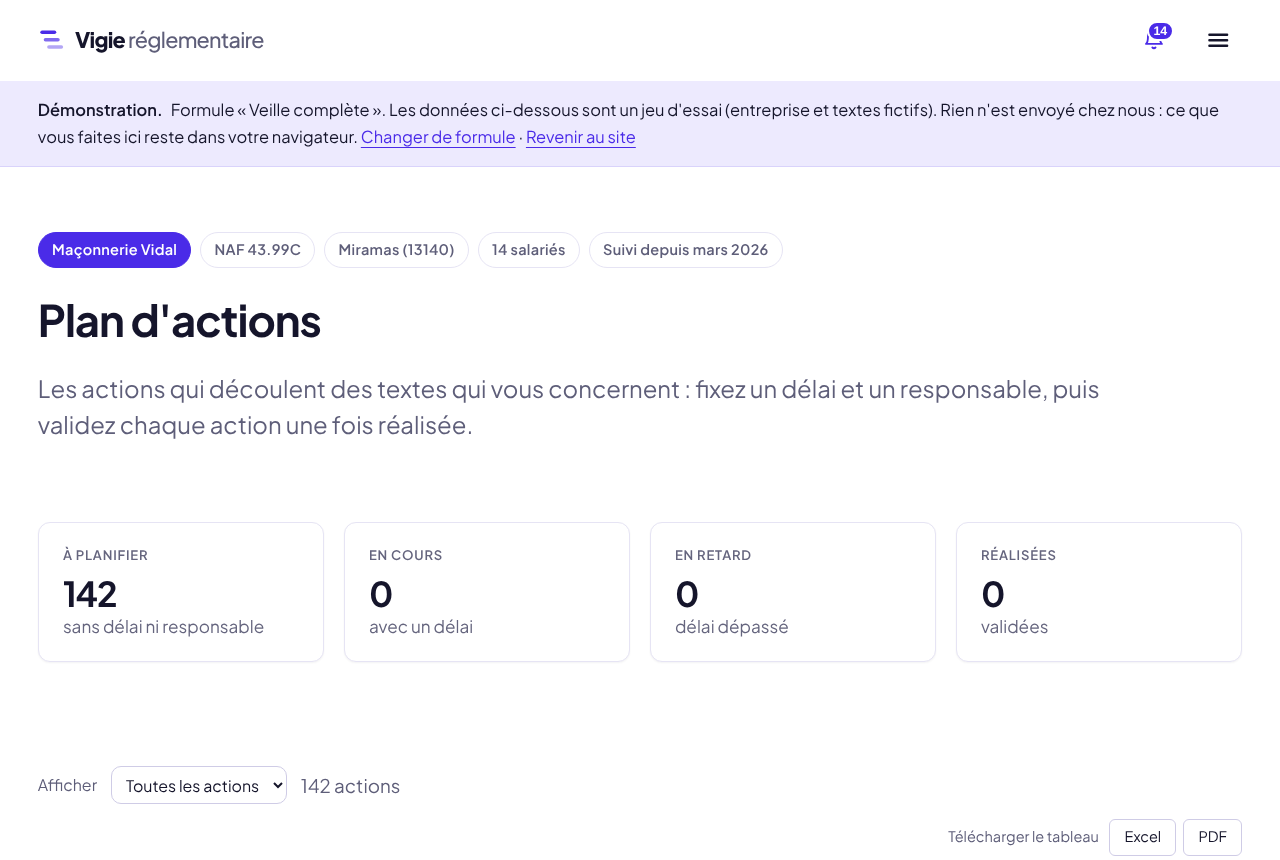
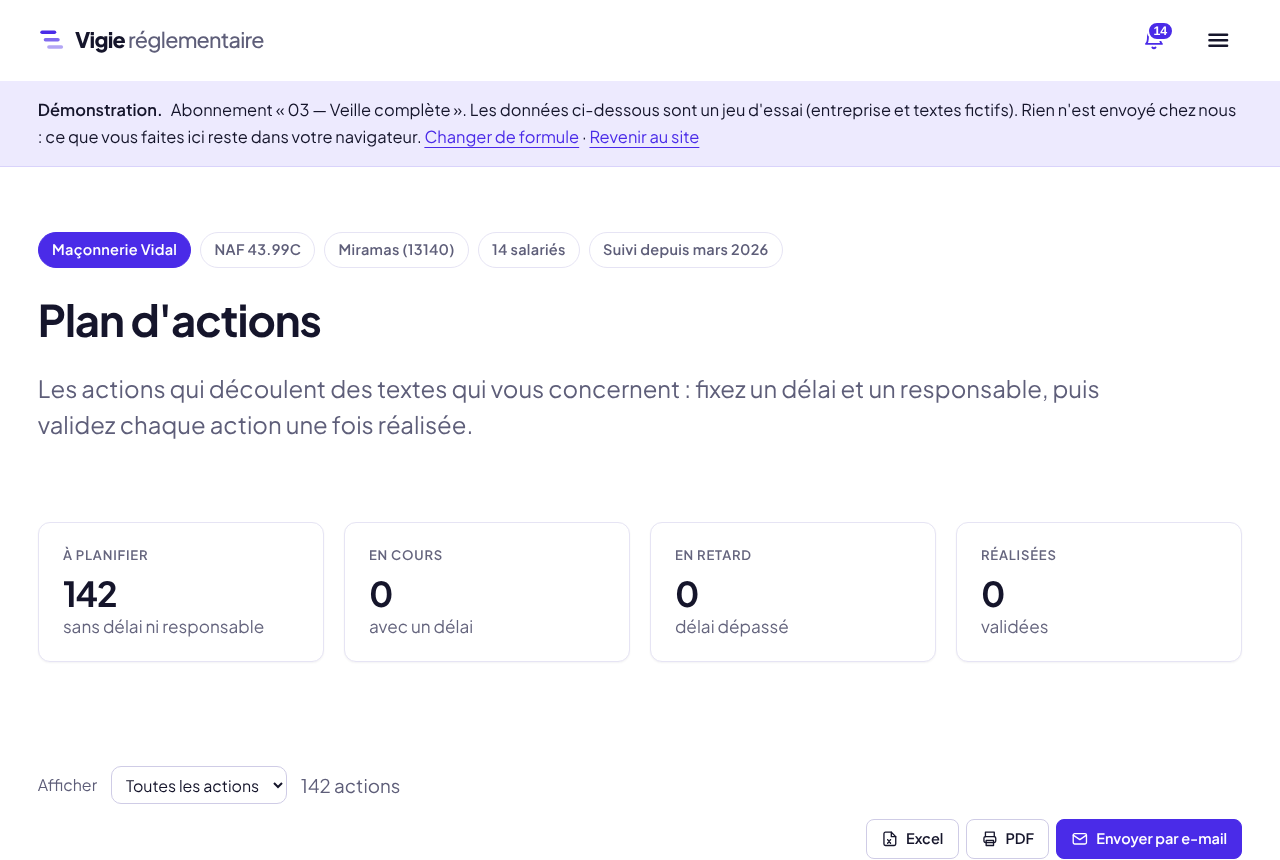
Tableaux de bord : « Prochaines revues » retiré partout (compte, consultant chez son client, démonstrations) ; captures de l'accueil mises à jour
Claude-Session: https://claude.ai/code/session_018eHCodhqxxzNvWMueTAwHN

Changed region(s): [[0.0312, 0.1209, 0.9688, 0.1814], [0.6562, 0.9372, 0.9688, 1.0]]

diff --git a/assets/espace.js b/assets/espace.js
@@ -135,23 +135,6 @@
           retard ? "dont " + retard + " en retard" : "", "Voir le plan d'actions") +
         "</dl>";
     })());
-    /* Les prochaines revues, par rythme, comme dans la démonstration
-       (4 novembre 2026) : la date la plus proche de chaque rythme du plan,
-       ou « À faire » quand une revue de ce rythme est due. */
-    if (plan.length) {
-      var P = window.PLAN || {}, F = P.f || {}, parRythme = {};
-      plan.forEach(function (x) {
-        var r = parRythme[x.frequence] = parRythme[x.frequence] || { aFaire: false, prochaine: null };
-        if (x.aFaire) r.aFaire = true;
-        else if (!r.prochaine || x.prochaine < r.prochaine) r.prochaine = x.prochaine;
-      });
-      var rythmes = Object.keys(parRythme).sort(function (a, b) { return ((F[a] || {}).ordre || 9) - ((F[b] || {}).ordre || 9); });
-      html += rubrique("Prochaines revues", '<ul class="liste-echeances">' + rythmes.map(function (k) {
-        var r = parRythme[k];
-        return '<li><a href="plan.html"><span class="etiq">' + echappe((F[k] || {}).l || k) +
-          '</span><span class="mono">' + (r.aFaire ? "À faire" : echappe(jour(r.prochaine))) + "</span></a></li>";
-      }).join("") + "</ul>", true);
-    }
     html += '<div id="bord-traces"></div>';
     hote.innerHTML = html;
     if (!hote.hasAttribute("data-ecoute")) hote.setAttribute("data-ecoute", ""), hote.addEventListener("click", function (e) {
